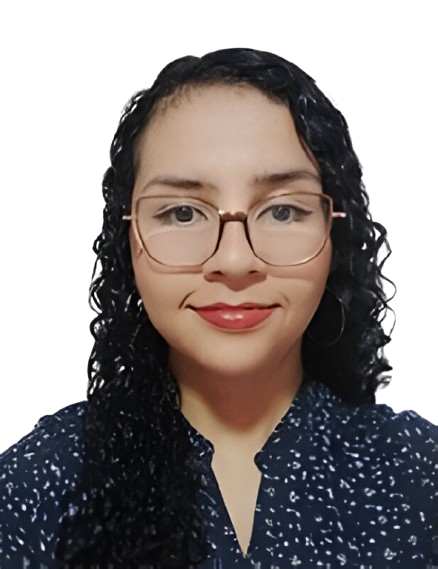
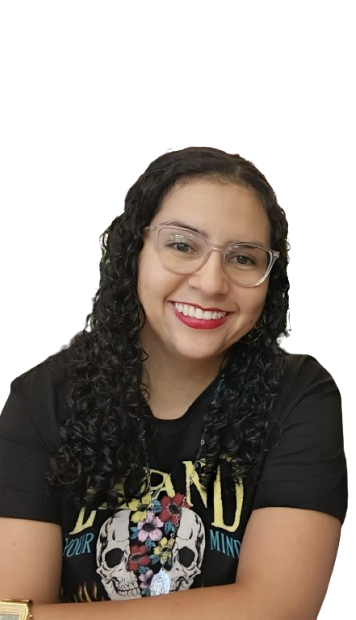
Ajustar imagen principal del portafolio

diff --git a/src/styles/App.css b/src/styles/App.css
@@ -1,6 +1,5 @@
 /* ═══════════════════════════════════════════
    App.css — Portafolio María Alejandra Vasco
-   Dark Theme · Syne + DM Sans · Teal accent
 ═══════════════════════════════════════════ */
 
 /* ── Google Fonts ─────────────────────────── */
@@ -169,6 +168,7 @@ ul { list-style: none; }
 /* Foto */
 .hero-photo-wrapper {
   position: relative;
+  left: -16px;
   flex-shrink: 0;
 }
 .hero-photo-ring {
@@ -188,7 +188,7 @@ ul { list-style: none; }
   height: 200px;
   border-radius: 50%;
   object-fit: cover;
-  object-position: center top;
+  object-position: center center;
   border: 4px solid var(--bg-primary);
   z-index: 1;
 }
@@ -256,6 +256,7 @@ ul { list-style: none; }
     text-align: center;
     gap: 28px;
   }
+  .hero-photo-wrapper { left: 0; }
   .hero-name { font-size: 32px; }
   .hero-photo { width: 140px; height: 140px; }
   .hero-actions { justify-content: center; }
